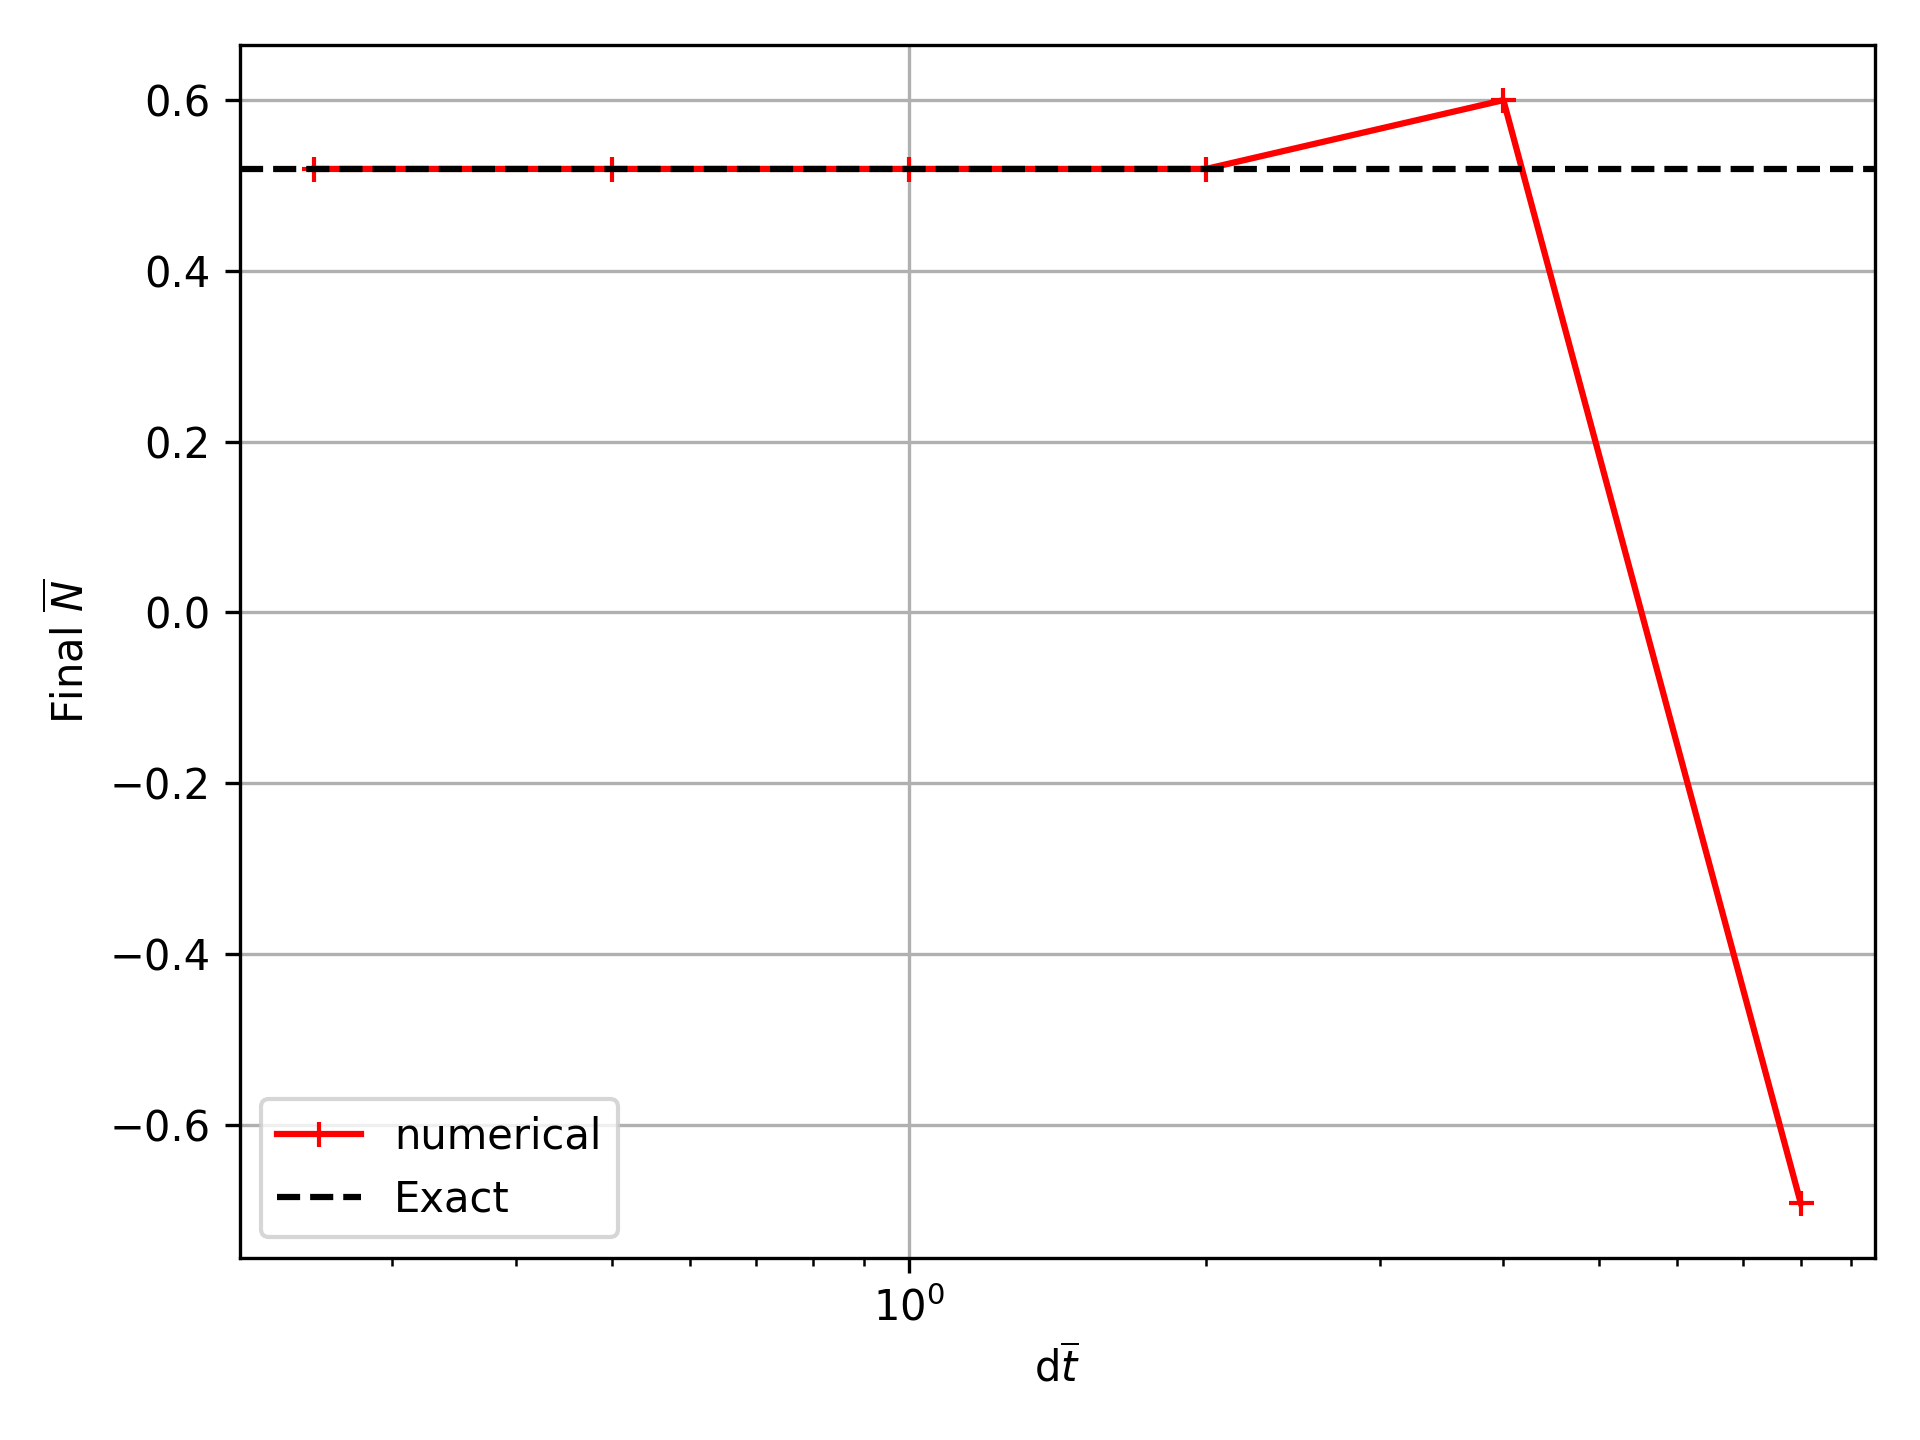
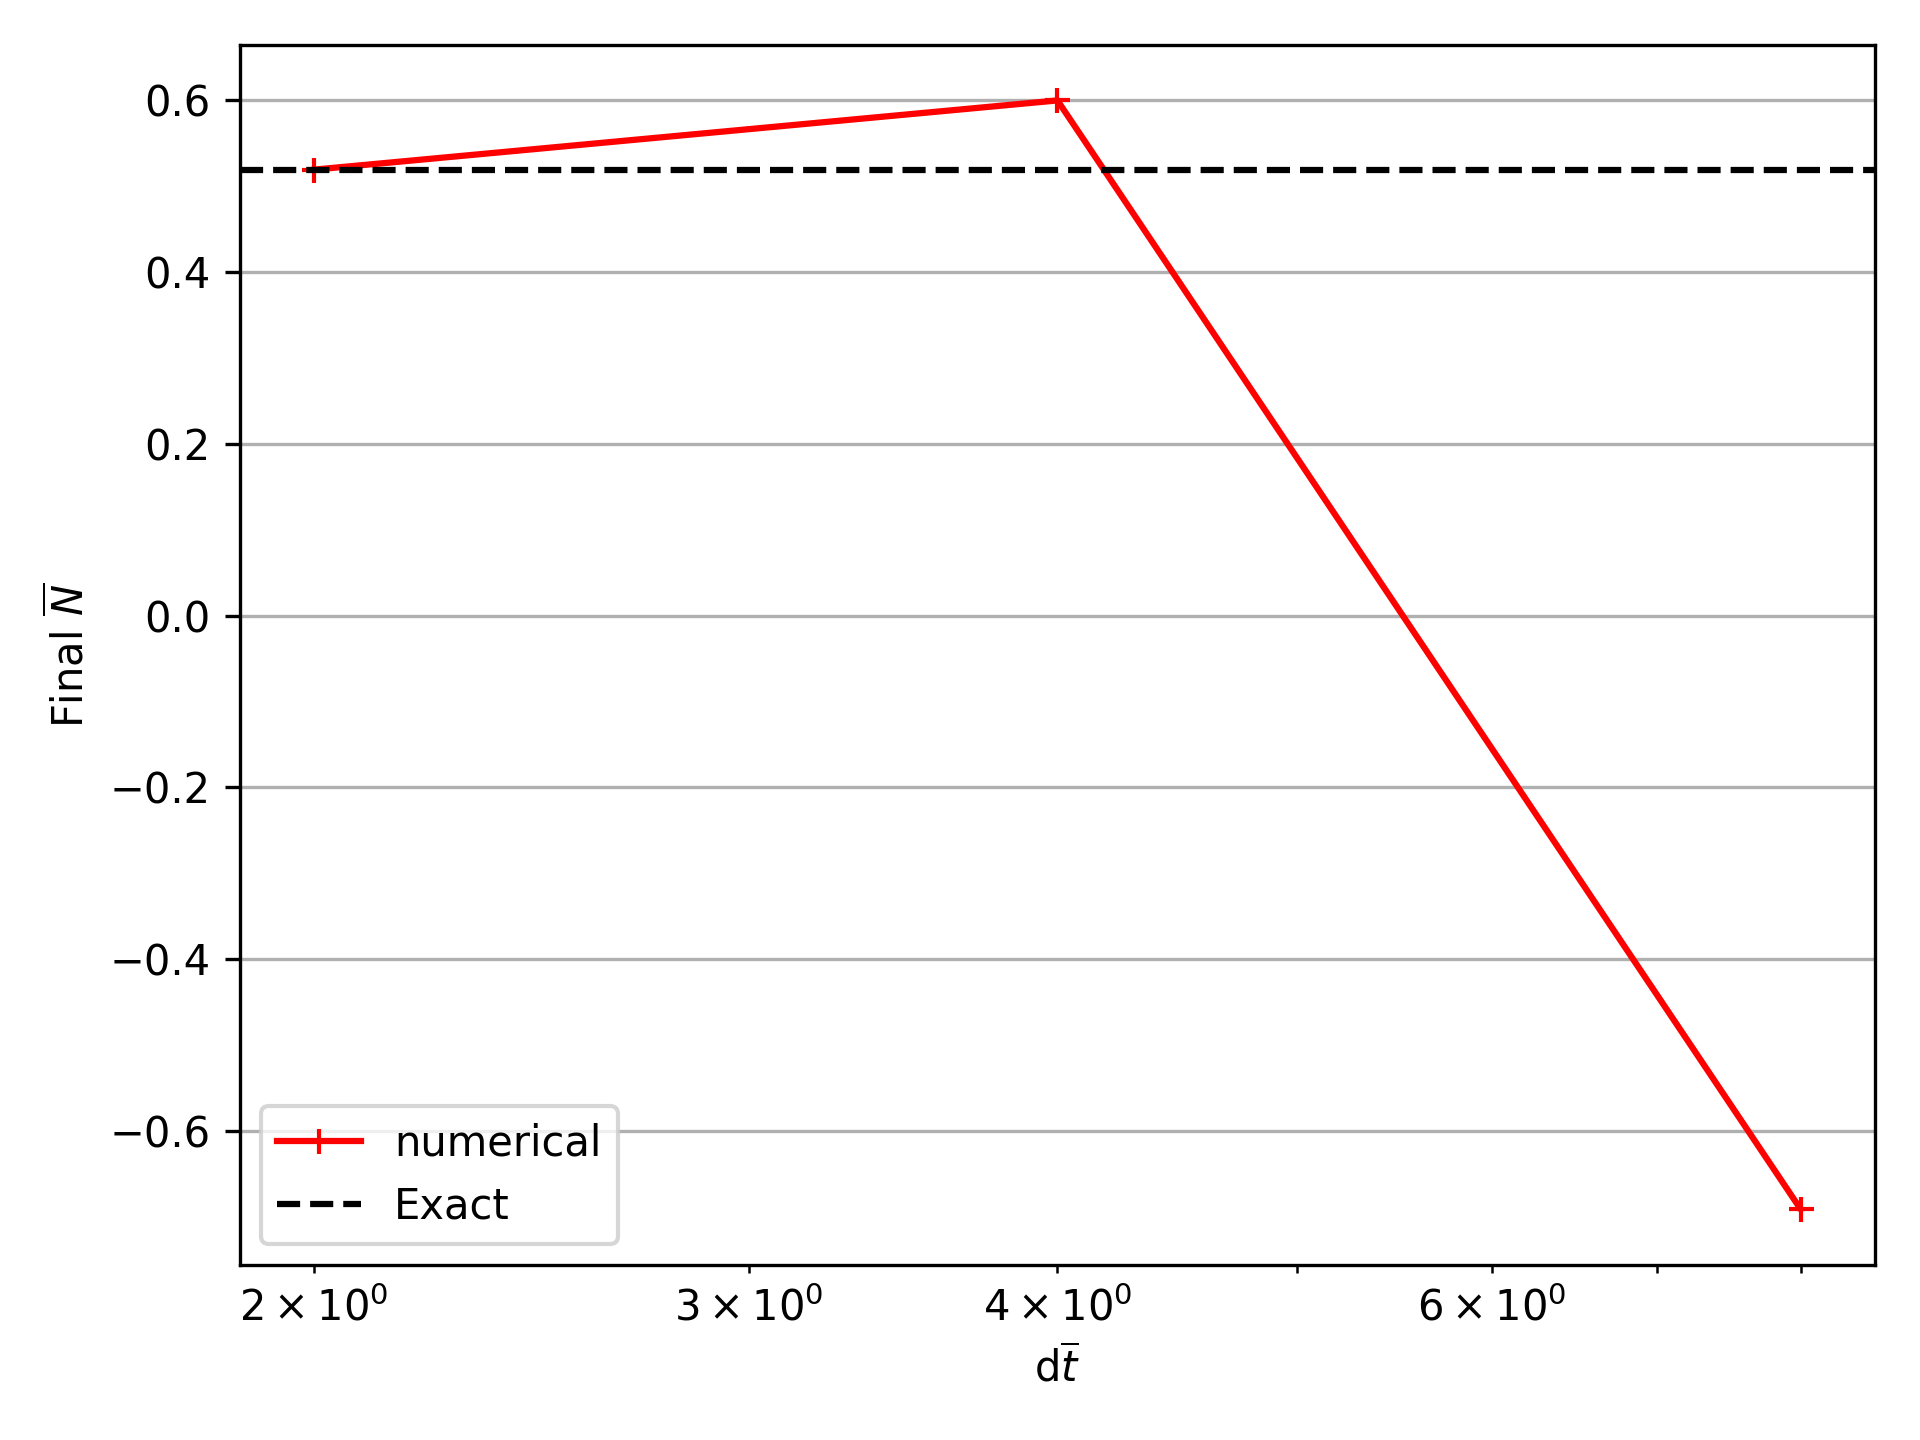
question d)

diff --git a/Exercise1_student/runaways/problème/parameterscan.py b/Exercise1_student/runaways/problème/parameterscan.py
@@ -17,7 +17,7 @@ d = 0.01
 
 question_b = False
 question_c = False
-question_d = False
+question_d = True
 
 if question_c:
     g = -0.2
@@ -26,7 +26,10 @@ if question_c:
 if question_b:
     tf=1
 
-alpha = 0  # 1 explicit, 0 implicit, 0.5 semi-implicit
+alpha = 1  # 1 explicit, 0 implicit, 0.5 semi-implicit
+
+if question_d: # for question d) we only need explicit
+    alpha = 1
 
 if alpha == 1:
     alphastr = "expl"
@@ -46,7 +49,9 @@ print("Saving results in:", outdir)
 # -------------------------------------------------
 
  #TODO: Adjust for your needs
-if question_b :
+if question_d:
+    dt = np.array([tf/16, tf/8, tf/4])  # for question d)
+elif question_b :
     dt = np.array([tf/1024])  #pour question b)
 else: dt = tf / 2**np.arange(2,8)
 
@@ -195,35 +200,37 @@ plt.legend()
 plt.tight_layout()
 plt.savefig(os.path.join(outdir, f"{figstr}_Nf_conv.png"), dpi=300)
 
-plt.figure()
-plt.plot(dtlist, tau_list, 'r+-', label="numerical")
-plt.axhline(tau_ref, color='k', linestyle='--', label="Exact")
-plt.xlabel(r"d$\overline{t}$")
-plt.ylabel(r"Characteristic time $\overline{\tau}$")
-plt.xscale('log')
-#plt.ylim(0, tf/10)  # Set y-limits to focus on the relevant range
-plt.grid(True)
-plt.legend()
-plt.tight_layout()
-plt.savefig(os.path.join(outdir, f"{figstr}_tau.png"), dpi=300)
+if not ((question_d) or (question_b)): #pour la question d) on n'affiche pas tau
+    plt.figure()
+    plt.plot(dtlist, tau_list, 'r+-', label="numerical")
+    plt.axhline(tau_ref, color='k', linestyle='--', label="Exact")
+    plt.xlabel(r"d$\overline{t}$")
+    plt.ylabel(r"Characteristic time $\overline{\tau}$")
+    plt.xscale('log')
+    #plt.ylim(0, tf/10)  # Set y-limits to focus on the relevant range
+    plt.grid(True)
+    plt.legend()
+    plt.tight_layout() 
+    plt.savefig(os.path.join(outdir, f"{figstr}_tau.png"), dpi=300)
 
-tau_err = np.abs(1 - np.array(tau_list) / tau_ref)
+    tau_err = np.abs(1 - np.array(tau_list) / tau_ref)
 
-plt.figure()
-plt.loglog(dtlist, tau_err, 'r+-', label="numerical")
-plt.loglog(dtlist, dtlist, 'k--', label="O(dt)")
-plt.loglog(dtlist, dtlist**2, 'k-.', label="O(dt^2)")
-plt.xlabel(r"d$\overline{t}$")
-plt.ylabel(r"Relative error on $\overline{\tau}$")
-plt.legend()
-plt.grid(True)
-plt.tight_layout()
-plt.savefig(os.path.join(outdir, f"{figstr}_tau_error.png"), dpi=300)
+    plt.figure()
+    plt.loglog(dtlist, tau_err, 'r+-', label="numerical")
+    plt.loglog(dtlist, dtlist, 'k--', label="O(dt)")
+    plt.loglog(dtlist, dtlist**2, 'k-.', label="O(dt^2)")
+    plt.xlabel(r"d$\overline{t}$")
+    plt.ylabel(r"Relative error on $\overline{\tau}$")
+    plt.legend()
+    plt.grid(True)
+    plt.tight_layout() 
+    plt.savefig(os.path.join(outdir, f"{figstr}_tau_error.png"), dpi=300)
 
-plt.figure()
-plt.loglog(totalsteps, tau_err, 'r+-', label=f"{alphastr}")
-plt.xlabel("Total steps")
-plt.ylabel("Relative error on tau")
-plt.grid(True, which="both", linestyle="--", linewidth=0.5)
-plt.tight_layout()
-plt.savefig(os.path.join(outdir, f"{figstr}_tau_error_vs_steps.png"), dpi=300) 
+    plt.figure()
+    plt.loglog(totalsteps, tau_err, 'r+-', label=f"{alphastr}")
+    plt.xlabel("Total steps")
+    plt.ylabel("Relative error on tau")
+    plt.grid(True, which="both", linestyle="--", linewidth=0.5)
+    plt.tight_layout() 
+    plt.savefig(os.path.join(outdir, f"{figstr}_tau_error_vs_steps.png"), dpi=300) 
+

diff --git a/Exercise1_student/runaways/problème/parameterscan.py b/Exercise1_student/runaways/problème/parameterscan.py
@@ -17,7 +17,7 @@ d = 0.01
 
 question_b = False
 question_c = False
-question_d = False
+question_d = True
 
 if question_c:
     g = -0.2
@@ -26,7 +26,10 @@ if question_c:
 if question_b:
     tf=1
 
-alpha = 0  # 1 explicit, 0 implicit, 0.5 semi-implicit
+alpha = 1  # 1 explicit, 0 implicit, 0.5 semi-implicit
+
+if question_d: # for question d) we only need explicit
+    alpha = 1
 
 if alpha == 1:
     alphastr = "expl"
@@ -46,7 +49,9 @@ print("Saving results in:", outdir)
 # -------------------------------------------------
 
  #TODO: Adjust for your needs
-if question_b :
+if question_d:
+    dt = np.array([tf/16, tf/8, tf/4])  # for question d)
+elif question_b :
     dt = np.array([tf/1024])  #pour question b)
 else: dt = tf / 2**np.arange(2,8)
 
@@ -195,35 +200,37 @@ plt.legend()
 plt.tight_layout()
 plt.savefig(os.path.join(outdir, f"{figstr}_Nf_conv.png"), dpi=300)
 
-plt.figure()
-plt.plot(dtlist, tau_list, 'r+-', label="numerical")
-plt.axhline(tau_ref, color='k', linestyle='--', label="Exact")
-plt.xlabel(r"d$\overline{t}$")
-plt.ylabel(r"Characteristic time $\overline{\tau}$")
-plt.xscale('log')
-#plt.ylim(0, tf/10)  # Set y-limits to focus on the relevant range
-plt.grid(True)
-plt.legend()
-plt.tight_layout()
-plt.savefig(os.path.join(outdir, f"{figstr}_tau.png"), dpi=300)
+if not ((question_d) or (question_b)): #pour la question d) on n'affiche pas tau
+    plt.figure()
+    plt.plot(dtlist, tau_list, 'r+-', label="numerical")
+    plt.axhline(tau_ref, color='k', linestyle='--', label="Exact")
+    plt.xlabel(r"d$\overline{t}$")
+    plt.ylabel(r"Characteristic time $\overline{\tau}$")
+    plt.xscale('log')
+    #plt.ylim(0, tf/10)  # Set y-limits to focus on the relevant range
+    plt.grid(True)
+    plt.legend()
+    plt.tight_layout() 
+    plt.savefig(os.path.join(outdir, f"{figstr}_tau.png"), dpi=300)
 
-tau_err = np.abs(1 - np.array(tau_list) / tau_ref)
+    tau_err = np.abs(1 - np.array(tau_list) / tau_ref)
 
-plt.figure()
-plt.loglog(dtlist, tau_err, 'r+-', label="numerical")
-plt.loglog(dtlist, dtlist, 'k--', label="O(dt)")
-plt.loglog(dtlist, dtlist**2, 'k-.', label="O(dt^2)")
-plt.xlabel(r"d$\overline{t}$")
-plt.ylabel(r"Relative error on $\overline{\tau}$")
-plt.legend()
-plt.grid(True)
-plt.tight_layout()
-plt.savefig(os.path.join(outdir, f"{figstr}_tau_error.png"), dpi=300)
+    plt.figure()
+    plt.loglog(dtlist, tau_err, 'r+-', label="numerical")
+    plt.loglog(dtlist, dtlist, 'k--', label="O(dt)")
+    plt.loglog(dtlist, dtlist**2, 'k-.', label="O(dt^2)")
+    plt.xlabel(r"d$\overline{t}$")
+    plt.ylabel(r"Relative error on $\overline{\tau}$")
+    plt.legend()
+    plt.grid(True)
+    plt.tight_layout() 
+    plt.savefig(os.path.join(outdir, f"{figstr}_tau_error.png"), dpi=300)
 
-plt.figure()
-plt.loglog(totalsteps, tau_err, 'r+-', label=f"{alphastr}")
-plt.xlabel("Total steps")
-plt.ylabel("Relative error on tau")
-plt.grid(True, which="both", linestyle="--", linewidth=0.5)
-plt.tight_layout()
-plt.savefig(os.path.join(outdir, f"{figstr}_tau_error_vs_steps.png"), dpi=300) 
+    plt.figure()
+    plt.loglog(totalsteps, tau_err, 'r+-', label=f"{alphastr}")
+    plt.xlabel("Total steps")
+    plt.ylabel("Relative error on tau")
+    plt.grid(True, which="both", linestyle="--", linewidth=0.5)
+    plt.tight_layout() 
+    plt.savefig(os.path.join(outdir, f"{figstr}_tau_error_vs_steps.png"), dpi=300) 
+
